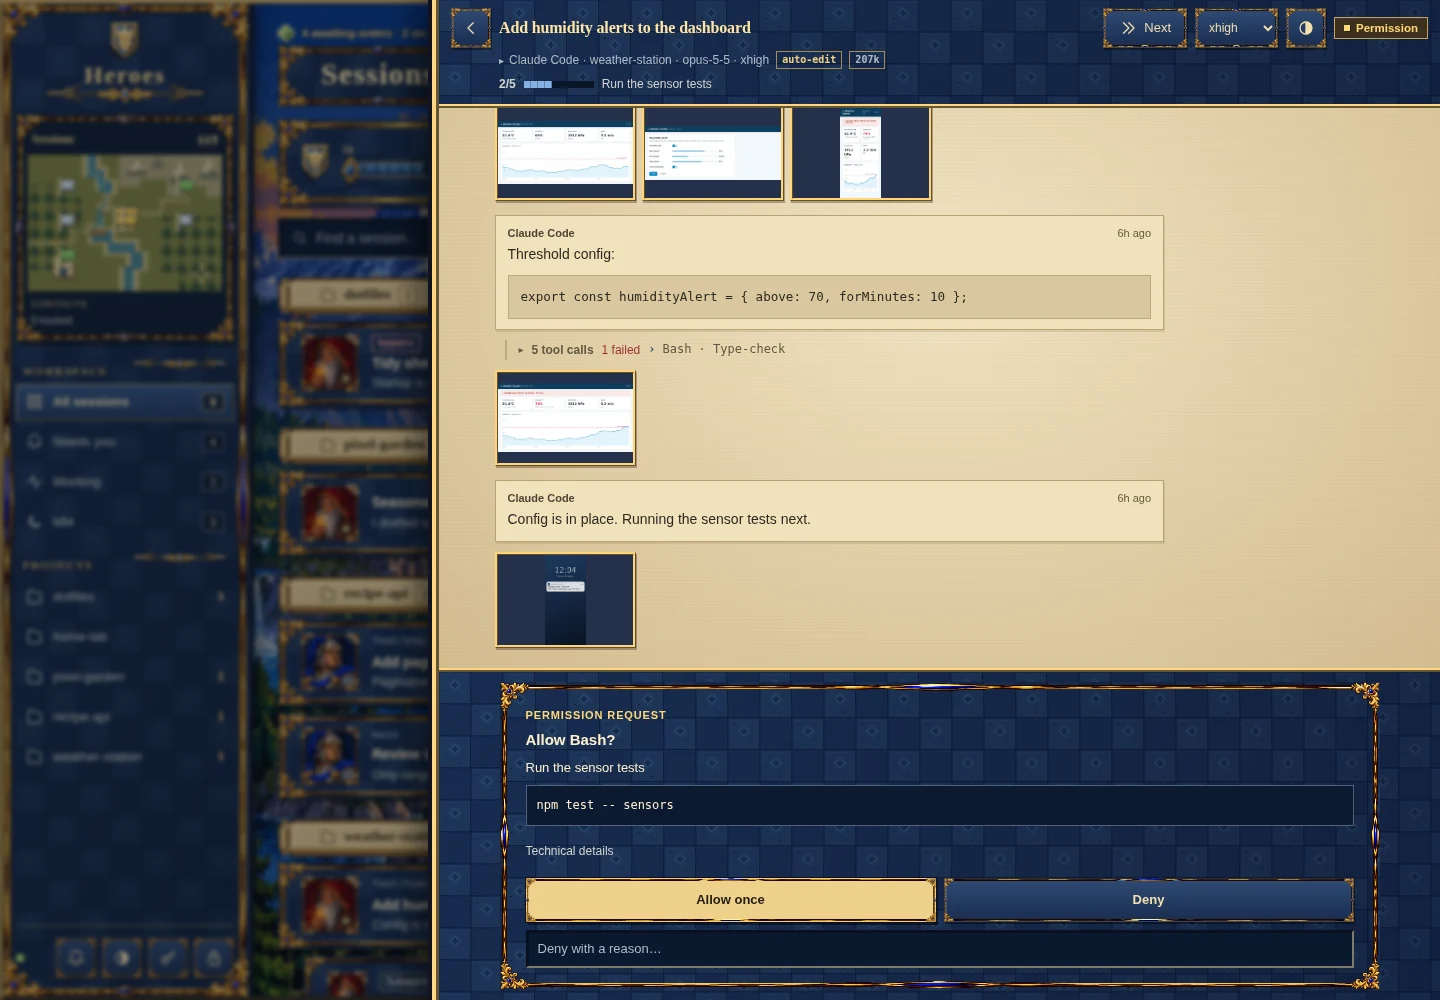
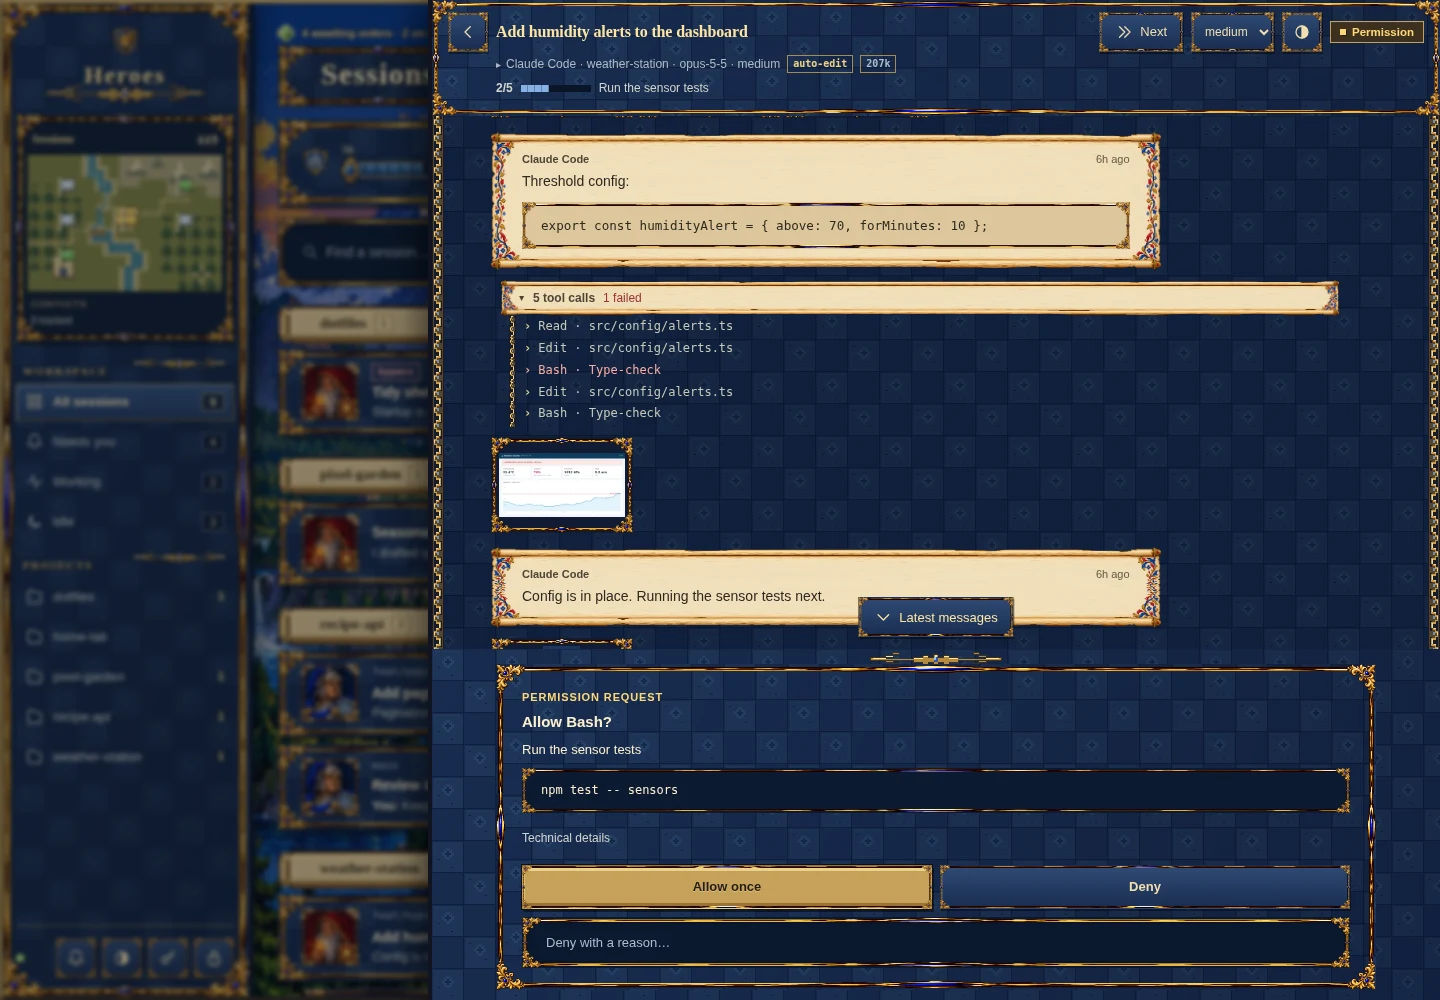
Give Heroes chat illuminated scrolls and carved input controls

diff --git a/client/heroes.css b/client/heroes.css
@@ -7,6 +7,7 @@
   --gold: #b39758;
   --stone: linear-gradient(110deg, #14234420, #080f2366), url('/heroes-stone.svg');
   --ornate: url('/heroes-ornate-frame.webp');
+  --parchment: url('/heroes-parchment.webp');
   --bevel: inset 1px 1px #f8df9b, inset -1px -1px #584026, 0 0 0 1px #0b1020, 2px 3px 0 #0007;
   --scroll-track: #0d192e; --scroll-thumb: #a88b4c;
 
@@ -72,9 +73,9 @@
   :is(.theme-options, .filter-options) { background: var(--stone); border: 3px ridge #c0a267; border-radius: 0; }
   .theme-choice[aria-pressed=true], .tab.active { background: #314a6f; color: #ffe2a1; box-shadow: inset 0 0 0 1px #9e8554; }
   .theme-choice:hover, .tab:hover { background: #293f62; }
-  :is(.search, .login-form input, .access-form input:not([type=checkbox]), .message-form textarea, .custom-answer input, .deny-reason) { background: #0b1930; border: 2px solid; border-color: #0a1020 #7d7c69 #7d7c69 #0a1020; border-radius: 0; box-shadow: inset 1px 1px #0005; }
-  :is(.search:focus-within, .login-form input:focus, .access-form input:focus, .message-form textarea:focus, .custom-answer input:focus, .deny-reason:focus) { border-color: #dfbf76; box-shadow: inset 1px 1px #0005, 0 0 0 1px #0b162b; }
-  .search { background: #13223deF; }
+  :is(.search, .login-form input, .access-form input:not([type=checkbox]), .message-form textarea, .custom-answer input, .deny-reason) { padding: 12px 20px; background: #0b1930; border: 4px solid transparent; border-image: var(--ornate) 34% / 19px stretch; border-radius: 0; box-shadow: inset 0 0 0 3px #0b1427; }
+  :is(.search:focus-within, .login-form input:focus, .access-form input:focus, .message-form textarea:focus, .custom-answer input:focus, .deny-reason:focus) { outline: 2px solid var(--focus); outline-offset: 1px; box-shadow: none; }
+  .search { padding: 0 18px; background: #13223def; }
 
   /* Native progress retains the exact used value and accessible name. The glass reservoir
      and carved end caps are decoration; labels and reset times remain visible at every width. */
@@ -132,25 +133,58 @@
   .empty { padding: 30px 16px; }
   .integrations { margin-top: 18px; }
 
-  /* The session opens like a spellbook: blue bindings, parchment leaves, blue composer. */
-  .detail-panel { border-left: 7px ridge #b99c5e; background: var(--stone); box-shadow: -4px 0 #101321, -14px 0 32px #0008; }
-  .chat-header { background: var(--stone); border-bottom: 4px ridge #b99c5e; }
+  /* A bound correspondence book: illuminated folios on blue cloth. Keep the frame in
+     the scroll container's gutters, and leave native text selection and textarea resizing intact. */
+  .detail-panel { border-left: 0; background: var(--stone); box-shadow: -4px 0 #101321, -14px 0 32px #0008; }
+  .chat-header { padding-bottom: 12px; background: var(--stone); border: 4px solid transparent; border-image: var(--ornate) 34% / 25px stretch; }
   .panel-title { color: #ffe4a1; }
+  .recent-messages::before, .recent-messages::after { content: ''; position: absolute; top: 0; bottom: 0; z-index: 1; width: 12px; background: url('/heroes-binding.svg') left top / 12px 32px repeat-y; pointer-events: none; image-rendering: pixelated; }
+  .recent-messages::before { left: 0; }
+  .recent-messages::after { right: 0; scale: -1 1; }
   .history-viewport {
     color-scheme: light;
     --bg: #dfcda5; --panel: #f0e1bc; --panel-2: #dfcda5; --sunken: #dac79f;
     --text: #2d291e; --text-2: #4e4634; --text-3: #625840;
     --line: #bbaa7c; --line-2: #978253;
     --accent: #345378; --accent-soft: #cbd5d0; --ok: #345b27; --ok-soft: #d4dfb4; --danger: #9b322e; --danger-soft: #f0c5ab;
-    background: repeating-linear-gradient(0deg, #48331a05 0 1px, transparent 1px 3px), radial-gradient(ellipse at 50% 30%, #f1e4c3, #d3bc8f);
+    padding-inline: max(22px, env(safe-area-inset-left)) max(22px, env(safe-area-inset-right));
+    background: linear-gradient(#07102170, #07102170), url('/heroes-stone.svg');
     color: var(--text);
   }
-  .recent-message { border-radius: 0; border-color: #b7a477; box-shadow: 1px 2px #71542d26; }
-  .recent-message.user { border: 1px solid #98a797; border-radius: 0; background: #d5ddd0; box-shadow: 1px 2px #45594d26; }
-  .recent-message.tool { background: none; box-shadow: none; border-color: #a89770; }
-  .history-shot { border: 3px ridge #b79755; border-radius: 0; background: #24304a; box-shadow: 1px 2px #47332160; }
+  .history-content { padding-block: 12px 20px; }
+  .recent-message:not(.tool):not(.notice) { position: relative; padding: 14px 26px 16px; border: 5px solid transparent; border-image: var(--parchment) 24% fill / 30px stretch; border-radius: 0; background: none; box-shadow: none; }
+  .recent-message.user .message-meta strong { color: #345378; }
+  .recent-message.user .message-meta::before { content: ''; flex: none; width: 20px; height: 20px; background: url('/heroes-seal.svg') center / contain no-repeat; image-rendering: pixelated; }
+  .recent-message.user .message-meta { justify-content: start; gap: 6px; }
+  .recent-message.user .message-meta time { margin-left: auto; }
+  .message-text pre, .request-code, .request-details pre { padding: 10px 16px; border: 3px solid transparent; border-image: var(--ornate) 34% / 14px stretch; border-radius: 0; }
+  .message-text pre { background: #ddc79c; }
+  .message-text blockquote { padding-left: 20px; border: 0; background: url('/heroes-binding.svg') left top / 8px 22px repeat-y; }
+  .message-text hr { height: 18px; border: 0; background: url('/heroes-flourish.svg') center / 144px 22px no-repeat; }
+  .history-empty, .history-content > .recent-message.notice { --text-3: #c3c9ce; --danger: #ffaaa0; }
+  .recent-message.tool { padding-left: 18px; border: 0; background: url('/heroes-binding.svg') left top / 7px 19px repeat-y; box-shadow: none; }
+  .recent-message.tool .tool-call { color: #c9c9b8; }
+  .recent-message.tool .tool-call::before { color: #ecd38d; }
+  .recent-message.tool.failed .tool-call { color: #ffaaa0; }
+  .recent-message.tool.failed .tool-call::before { color: #ffaaa0; }
+  .tool-run { padding-left: 0; border: 0; }
+  .tool-run > summary { padding: 6px 16px; border: 3px solid transparent; border-image: var(--parchment) 24% fill / 18px stretch; --danger: #9b322e; color: #4e4634; }
+  .tool-run > summary .tool-call { color: #625840; }
+  .tool-run > .recent-message.tool { margin: 0 8px; padding-left: 15px; }
+  .history-shot { padding: 5px; border: 3px solid transparent; border-image: var(--ornate) 34% / 20px stretch; border-radius: 0; background: #101b32; box-shadow: none; }
   .history-latest.quiet-button { border-radius: 0; color: #ffe6a2; }
-  .chat-requests, .message-composer { border-top: 4px ridge #b99c5e; background: var(--stone); }
+  .chat-requests, .message-composer { padding-top: 15px; border: 0; background: url('/heroes-flourish.svg') center top / 160px 20px no-repeat, var(--stone); }
+  .message-form .composer-row textarea { min-height: 90px; padding: 16px 28px; color-scheme: light; color: #30291e; caret-color: #345378; background: none; border: 5px solid transparent; border-image: var(--parchment) 24% fill / 30px stretch; box-shadow: none; }
+  .message-form textarea::placeholder { color: #6c5d42; }
+  .composer-row { gap: 9px; align-items: center; }
+  .composer-row .primary { align-self: center; width: 72px; min-height: 72px; padding: 12px 8px; border: 0; background: url('/heroes-seal.svg') center / contain no-repeat; color: #fff0bf; box-shadow: none; text-shadow: 1px 1px #3b1922; font: 700 15px var(--display); }
+  .composer-row .primary:hover:not(:disabled) { background: url('/heroes-seal.svg') center / contain no-repeat; color: #fff8dc; filter: brightness(1.15); }
+  .composer-row .primary:disabled { padding-inline: 0; font-size: 12px; opacity: .65; }
+  .composer-row .primary:active:not(:disabled) { filter: brightness(.9); }
+  .queued-message { padding: 7px 16px; background: #12223d; border: 3px solid transparent; border-image: var(--ornate) 34% / 16px stretch; }
+  .answer-option { padding: 10px 16px; border: 3px solid transparent; border-image: var(--ornate) 34% / 16px stretch; background: #14243e; }
+  .answer-option:has(input:checked) { background: #354b68; border-color: transparent; box-shadow: none; }
+  .answer-option:has(input:focus-visible) { outline: 2px solid var(--focus); outline-offset: 1px; }
   .request-box { padding: 18px 22px; border: 4px solid transparent; border-image: var(--ornate) 34% / 29px stretch; background: var(--stone); box-shadow: inset 0 0 0 3px #0e182b; }
   .request-title { color: #ffe2a1; }
   .shot-viewer { padding: 18px; border: 8px solid transparent; border-image: var(--ornate) 34% / 35px stretch; border-radius: 0; background: var(--stone); color: var(--text); }
@@ -234,5 +268,14 @@
     .usage-meter { margin-inline: 8px; width: calc(100% - 16px); }
     .usage-tag { flex-basis: 4ch; font-size: 10px; }
     .request-box { padding: 16px; border-image-width: 24px; }
+    .history-viewport { padding-inline: max(15px, env(safe-area-inset-left)) max(15px, env(safe-area-inset-right)); }
+    .recent-messages::before, .recent-messages::after { width: 8px; background-size: 8px 22px; }
+    .recent-message:not(.tool):not(.notice) { padding: 12px 18px 14px; border-image-width: 24px; margin-right: 6px; }
+    .recent-message.user:not(.notice) { margin-left: 6px; margin-right: 0; }
+    .tool-run { margin-inline: 0; }
+    .tool-run > summary { gap: 5px; padding-inline: 10px; }
+    .message-form .composer-row textarea { padding: 14px 20px; border-image-width: 24px; }
+    .composer-row { gap: 5px; }
+    .composer-row .primary { width: 60px; min-height: 60px; font-size: 14px; }
   }
 }

diff --git a/README.md b/README.md
@@ -30,9 +30,9 @@ Office swaps the list for a toon-shaded 3D office: every session is a fruit at a
 | --- | --- |
 | ![Sanctuary: carved skull frames, bloody selections and usage orbs](docs/screenshots/diablo-overview.webp) | ![Sanctuary on a phone: red and blue usage orbs](docs/screenshots/diablo-phone.webp) |
 
-| Heroes | Heroes: spellbook history |
+| Heroes | Heroes: illuminated chat |
 | --- | --- |
-| ![Heroes: pixel castle and session map](docs/screenshots/heroes-overview.webp) | ![Heroes: parchment history and permission request](docs/screenshots/heroes-permission.webp) |
+| ![Heroes: pixel castle and session map](docs/screenshots/heroes-overview.webp) | ![Heroes: illuminated messages, writing scroll and wax-seal Send button](docs/screenshots/heroes-chat.webp) |
 
 | MU/TH/UR | EVA |
 | --- | --- |
